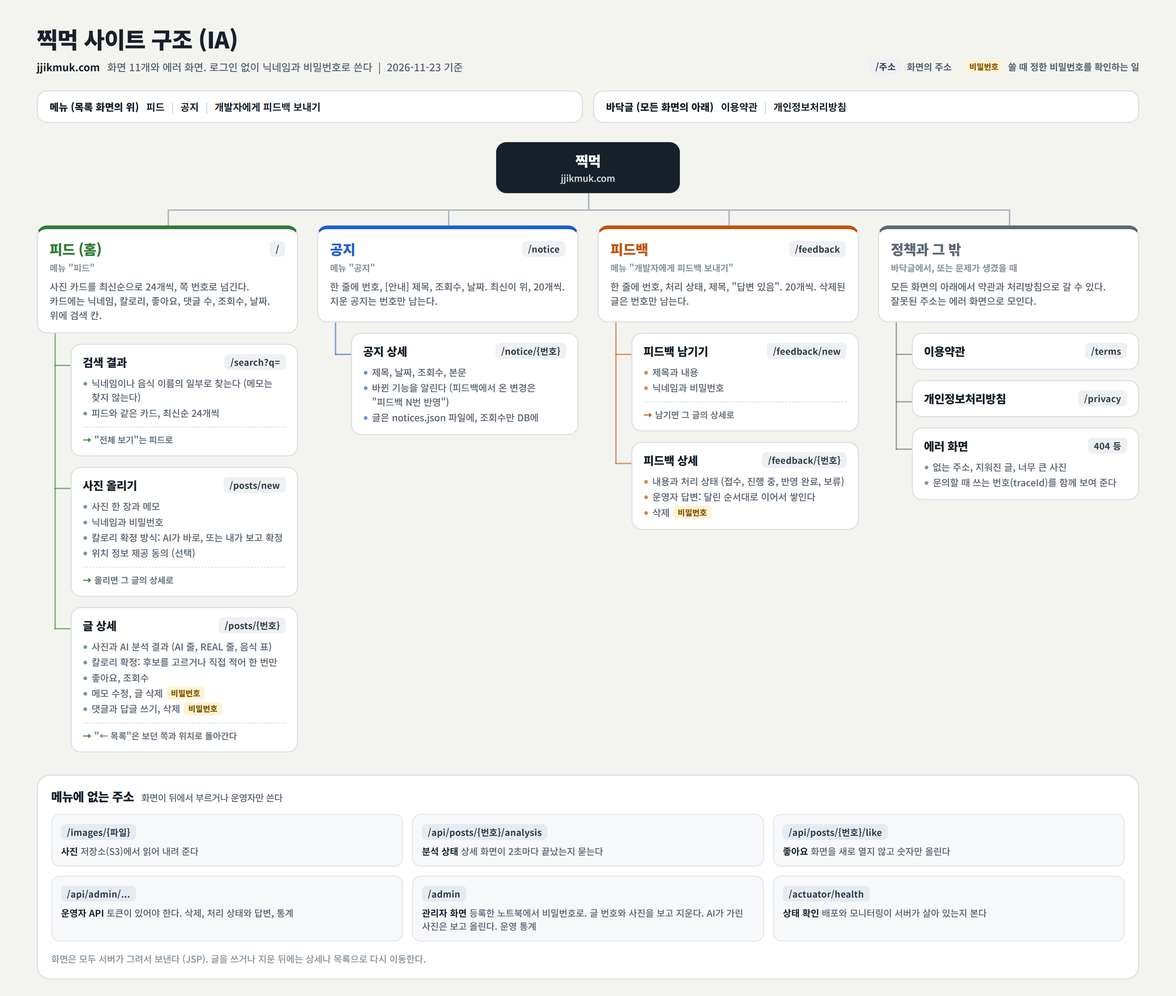
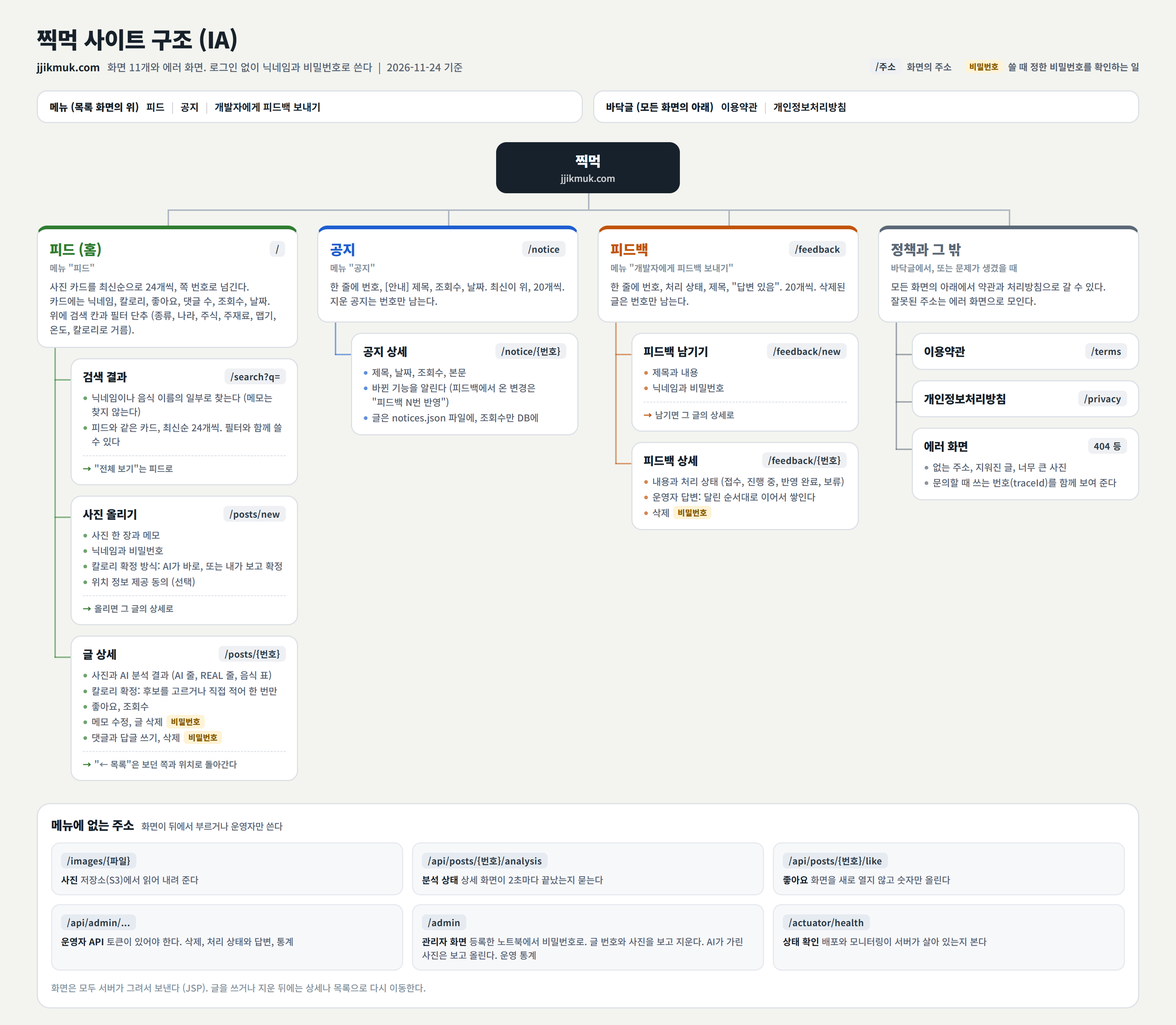
docs: 음식 태그와 필터의 기획, 그림, 성능과 흐름, 트러블슈팅 (JM-83)
- 기획서 4절, 6.6절(새로), 12 ~ 14절, 18절, 변경 이력. 구조 그림 둘 (필터, 태그 저장, 하루 상한 500)
- 성능 문서: AI 태그 전후 토큰과 시간, 필터 쿼리 수와 시간. 흐름 문서: 필터는 nginx 주소로 센다
- 트러블슈팅: 머지 전에 찾은 빈틈 열한 가지, 미리 막은 것 두 항목. SPRINTS S7의 PR #59 행

diff --git a/docs/diagrams/ai-analysis-flow.html b/docs/diagrams/ai-analysis-flow.html
@@ -68,7 +68,7 @@ h1 { position: absolute; left: 50px; top: 30px; font-size: 31px; font-weight: 80
 <body>
 <div class="stage">
   <h1>찍먹 AI 분석 흐름</h1>
-  <div class="subtitle"><b>사진 한 장이 칼로리가 되기까지</b>Google Gemini (gemini-3.5-flash-lite) &nbsp;|&nbsp; 2026-11-15 기준</div>
+  <div class="subtitle"><b>사진 한 장이 칼로리가 되기까지</b>Google Gemini (gemini-3.5-flash-lite) &nbsp;|&nbsp; 2026-11-24 기준</div>
   <div class="legend">
     <em>일하는 곳</em>
     <span class="w browser">브라우저</span><span class="w app">app 서버</span><span class="w store">저장소</span><span class="w ai">Gemini</span>
@@ -82,7 +82,7 @@ h1 { position: absolute; left: 50px; top: 30px; font-size: 31px; font-weight: 80
   <div class="step" style="left:64px; top:184px; width:341px; height:182px;" data-fit="s1">
     <div class="top"><span class="num">1</span><span class="w app">app 서버</span></div>
     <h3>업로드 제한</h3>
-    <p>같은 IP에서 1분에 3번, 하루 30번까지 올릴 수 있다.</p>
+    <p>브라우저마다 1분에 5번, 하루 30번. IP는 하루 200번, 전체는 하루 500개.</p>
     <p>넘으면 여기서 거절한다.</p>
   </div>
   <div class="step" style="left:440px; top:184px; width:341px; height:182px;" data-fit="s2">
@@ -113,7 +113,7 @@ h1 { position: absolute; left: 50px; top: 30px; font-size: 31px; font-weight: 80
   <div class="step" style="left:64px; top:500px; width:227px; height:300px;" data-fit="s5">
     <div class="top"><span class="num">5</span><span class="w app">app 서버</span></div>
     <h3>하루 상한 확인</h3>
-    <p>오늘 AI 호출이 200번을 넘었으면 부르지 않는다.</p>
+    <p>오늘 AI 호출이 500번을 넘었으면 부르지 않는다 (태그 채우기 호출도 센다).</p>
     <p>그 글은 상한 초과로 남는다.</p>
     <div class="detail"><b>횟수는 DB에서 센다</b>배포로 서버가 다시 켜져도 오늘 횟수가 0으로 돌아가지 않는다.</div>
   </div>
@@ -142,7 +142,7 @@ h1 { position: absolute; left: 50px; top: 30px; font-size: 31px; font-weight: 80
     <div class="top"><span class="num">8</span><span class="w store">RDS</span></div>
     <h3>검사하고 저장</h3>
     <p>음수이거나 지나치게 큰 값이면 실패로 처리한다.</p>
-    <p>결과와 함께 모델, 토큰 수, 걸린 시간을 저장한다.</p>
+    <p>결과, 모델, 토큰 수, 시간과 필터용 <b>음식 태그</b>를 저장한다.</p>
     <p>상태가 <b>DONE</b>으로 바뀐다.</p>
     <div class="detail"><b>실패로 남는 경우</b>답이 비었을 때, 시간 초과, 이상한 값, Gemini 쪽 오류</div>
   </div>

diff --git a/docs/diagrams/site-ia.html b/docs/diagrams/site-ia.html
@@ -74,7 +74,7 @@ code { font-family: "Noto Sans KR", "Malgun Gothic", sans-serif; font-size: 12.2
   <div class="head">
     <div>
       <h1>찍먹 사이트 구조 (IA)</h1>
-      <div class="subtitle"><b>jjikmuk.com</b>화면 11개와 에러 화면. 로그인 없이 닉네임과 비밀번호로 쓴다 &nbsp;|&nbsp; 2026-11-23 기준</div>
+      <div class="subtitle"><b>jjikmuk.com</b>화면 11개와 에러 화면. 로그인 없이 닉네임과 비밀번호로 쓴다 &nbsp;|&nbsp; 2026-11-24 기준</div>
     </div>
     <div class="legend">
       <span><code>/주소</code>화면의 주소</span>
@@ -94,14 +94,14 @@ code { font-family: "Noto Sans KR", "Malgun Gothic", sans-serif; font-size: 12.2
       <div class="sec">
         <div class="name"><h2>피드 (홈)</h2><code>/</code></div>
         <div class="menu">메뉴 "피드"</div>
-        <p>사진 카드를 최신순으로 24개씩, 쪽 번호로 넘긴다. 카드에는 닉네임, 칼로리, 좋아요, 댓글 수, 조회수, 날짜. 위에 검색 칸.</p>
+        <p>사진 카드를 최신순으로 24개씩, 쪽 번호로 넘긴다. 카드에는 닉네임, 칼로리, 좋아요, 댓글 수, 조회수, 날짜. 위에 검색 칸과 필터 단추 (종류, 나라, 주식, 주재료, 맵기, 온도, 칼로리로 거름).</p>
       </div>
       <div class="kids">
         <div class="kid">
           <div class="name"><h3>검색 결과</h3><code>/search?q=</code></div>
           <ul>
             <li>닉네임이나 음식 이름의 일부로 찾는다 (메모는 찾지 않는다)</li>
-            <li>피드와 같은 카드, 최신순 24개씩</li>
+            <li>피드와 같은 카드, 최신순 24개씩. 필터와 함께 쓸 수 있다</li>
           </ul>
           <div class="next"><b>→</b>"전체 보기"는 피드로</div>
         </div>

diff --git a/docs/PLANNING.md b/docs/PLANNING.md
@@ -38,6 +38,7 @@
 | 칼로리 확정 (고쳐 쓰는 AI) | 올릴 때 확정 방식을 고른다: "AI가 바로 확정"(기본, 지금까지와 같음) 또는 "내가 보고 확정". 내가 보고 확정으로 올리면 AI가 음식마다 후보 세 개와 양을 내고, 글 상세에서 후보를 고르거나 이름을 직접 적고 양을 고쳐서 **한 번만** 확정한다. AI의 답은 지우지 않고 확정한 값과 함께 보여 준다 (2026-11-13, JM-74, 지인 피드백 6번의 AI 정확성, 6.5절) |
 | 피드 | 최신순 무한 스크롤. 썸네일, 닉네임, 총 kcal, 댓글 수, 작성 시간. 2026-11-11부터 좋아요 수와 조회수도 보여 주고, 메모는 상세에서만 보인다 (JM-59, JM-72) |
 | 검색 | 피드 머리의 검색 칸에서 닉네임이나 음식 이름(AI가 낸 이름과 글쓴이가 확정한 이름)의 일부로 찾는다. 메모는 찾지 않는다. 결과는 피드와 같은 카드, 최신순 24개씩 (2026-11-23, JM-52, 지인 피드백 6번과 11번) |
+| 음식 필터 | 검색 칸 옆의 [필터](슬라이더 아이콘)를 누르면 뜨는 창에서 종류, 나라, 주식, 주재료, 맵기, 온도와 칼로리 범위로 거른다. 검색과 함께 쓸 수 있다. 분류는 AI가 글마다 사진을 보고 고른 태그 (2026-11-24, JM-83, 지인 피드백 11번과 13번, 6.6절) |
 | 상세 | 사진, 음식별 분석 표, 총합, 탄단지 비율 바, 면책 문구, 댓글 |
 | 게시글 삭제 | 비밀번호 확인 후 **상태 변경**으로 숨김 (DB에는 남음) |
 | 게시글 메모 수정 | 글을 올릴 때 넣은 비밀번호를 확인한 뒤 **메모만** 고친다. 사진, 닉네임, 분석 결과는 그대로다 (2026-11-12, JM-53, 지인 피드백 7번) |
@@ -59,7 +60,7 @@
 **처음부터 제외**
 - 회원제(소셜 로그인), 내 기록 모아보기, 일별 칼로리 합계, 통계
 - ~~분석 결과 사용자 보정 (예: "밥 반 공기만 먹었어요")~~ (2026-11-13, JM-74로 추가. 올릴 때 "내가 보고 확정"을 고른 글만, 글마다 한 번)
-- ~~대댓글~~ (2026-11-11, JM-58로 추가), ~~좋아요~~ (2026-11-11, JM-59로 추가), 신고, 금칙어 필터, ~~검색~~ (2026-11-23, JM-52로 추가. 닉네임과 음식 이름만), 필터
+- ~~대댓글~~ (2026-11-11, JM-58로 추가), ~~좋아요~~ (2026-11-11, JM-59로 추가), 신고, 금칙어 필터, ~~검색~~ (2026-11-23, JM-52로 추가. 닉네임과 음식 이름만), ~~필터~~ (2026-11-24, JM-83으로 추가. AI가 고른 음식 태그와 칼로리)
 - 위치 데이터 2차 가공 (지역별 인기 음식, 시간대별 평균 칼로리 등). 운영자 통계의 지역별 글 수만 2026-11-17에 더했다 (JM-85, 6.2절). 지역별 인기 음식과 공개 통계는 그대로 제외
 - 브라우저 Geolocation API로 현재 위치 첨부
 - 앱 (PWA 설치, 네이티브 앱 래핑)
@@ -244,6 +245,18 @@ AI의 추정을 사진을 올린 사람이 확인해서 확정하게 한다. 얻
 - 칼로리 차이: 확정 합계 - AI 첫 답 합계의 평균(음수면 AI가 많게 잡음), 차이 크기의 평균과 가운데 값.
 - 직접 적기로 AI를 한 번 더 부른 글과 그 토큰, 직접 적은 음식을 AI가 사진과 다르다고 본 확정 수.
 - 음식 이름과 직접 적은 글자는 내지 않고 개수만 낸다.
+
+### 6.6 음식 태그 (2026-11-24, JM-83)
+
+피드백 11번("음식 카테고리")과 13번("먹기 전에 칼로리를 미리 보고 싶다, 카테고리별로")에 답해, 글마다 음식 태그를 두고 필터로 거른다 (14절 피드).
+
+- **누가 정하나**: AI가 사진 전체를 보고 고른다 (운영자 결정 11-24). 음식 이름의 낱말로 서버가 나누는 안(운영 글 154개에 시험: 10개가 어디에도 안 들고 한 글이 평균 2개쯤에 듦)과 견줘 골랐다. 올릴 때 사용자가 고르는 안은 칸이 하나 늘고 지난 글이 비어서 뺐다
+- **묶음 여섯과 칼로리**: 종류(식사, 간식, 음료), 나라(한식, 중식, 일식, 양식, 아시아, 기타), 주식(밥, 빵, 면, 떡, 여럿), 주재료(고기, 해산물, 채소, 여럿), 맵기(매움, 안 매움), 온도(따뜻함, 차가움. 빵이나 과일처럼 어느 쪽도 아니면 태그 없음). 베트남 쌀국수 같은 음식은 나라 "아시아"(한식, 중식, 일식을 뺀 아시아). 음식이 섞인 밥상은 주된 음식(국이나 찌개와 메인 반찬) 기준. 칼로리는 AI가 고르지 않고 보이는 칼로리(확정한 글은 확정한 합계)로 200 단위 0 ~ 3000 범위를 거른다
+- **새 글**: 지금의 두 분석(AI가 바로 확정, 내가 보고 확정)의 응답 형식에 `tags` 칸을 더했다. 호출 수는 그대로다. 태그 규칙은 지시문 끝에 붙고(`GeminiFoodAnalyzer.TAG_RULES`), 값 목록은 `FoodTag`에서 응답 형식으로 만든다. 시험 사진 20장으로 잰 전후(실제 Gemini, 같은 사진을 번갈아): 실패 0 → 0, 시간 가운데 2.05 → 2.28초, 입력 토큰 가운데 1,329 → 1,766, 출력 139 → 212. 음식으로 본 글(DONE)만 태그를 저장하고, 저장에 실패해도 분석 결과는 그대로 둔다 (경고만, 나중에 채우기가 다시 채운다)
+- **지난 글과 실패한 글**: `PostTagFiller`가 켜진 지 3분 뒤부터 5분마다 태그가 없는 DONE 글을 최신 것부터 20개씩 찾아, 사진을 다시 보내 태그만 묻는다 (운영자 결정 11-24: 사진을 다시 보내 정확하게. 이름만 보내는 안은 아이스, 따뜻함처럼 사진으로만 아는 것이 틀릴 수 있다). 한 번에 입력 1,528, 출력 60 토큰, 가운데 1.6초 (시험 사진 20장). 지난 글 161개는 배포 뒤 40분쯤에 다 채워진다
+- **AI 비용을 지키는 장치**: 한 글은 3번까지만 맡는다(`tag_attempts`), 부르기 전에 맡아서(`tag_called_at`, 3분 지나면 다시) app 둘이 함께 떠 있어도 한 번만 부른다, 하루 분석 횟수 상한(500)에 태그 호출(맡은 횟수의 합)도 센다. AI에게서 답을 받지 못하면(429, 5xx, 연결 실패, 사진 저장소 오류) 맡은 것을 돌려주고 그 회차를 멈춘다: 장애가 길어도 5분에 한 번만 부르고 지난 글이 기회를 잃지 않는다 (PR 전 검토). 일정 스레드는 둘이라 태그 채우기가 분석 다시 넣기를 막지 않는다
+- **저장**: `post_tags`에 (글 번호, 태그) 한 줄씩 (12절). 묶음이나 값을 더하고 빼도 표를 고치지 않고, 필터는 기본 키와 (태그, 글 번호) 인덱스로 찾는다
+- **보는 곳**: 지금은 필터만 쓴다. 글 화면에 태그를 보여 주는 것과 운영자 통계에 태그별 글 수를 더하는 것은 다음 조각
 
 ## 7. 남용 방어 (MVP 최소)
 
@@ -509,6 +522,9 @@ GitHub (main push) → GitHub Actions → 테스트 → Docker 이미지 빌드 
 | typed_called_at | DATETIME(6) | 직접 적은 음식으로 AI를 부른 시각. 값이 있으면 그 글은 직접 적기를 이미 쓴 것이다 (글마다 한 번). 하루 상한을 셀 때도 쓴다 |
 | typed_input_tokens, typed_output_tokens, typed_latency_ms | | 그 호출에 쓴 토큰 수와 걸린 시간 |
 | typed_mismatch | BIT | 확정한 음식 가운데, 직접 적은 것을 AI가 사진과 맞지 않는다고 본 것이 있는지. 확정은 받고 표시만 남긴다 |
+| tagged_at | DATETIME(6) | 태그를 저장한 시각 (2026-11-24, JM-83, 6.6절). 비어 있으면 아직 태그가 없는 글이라 태그 채우기가 찾는다. 엔티티로 저장하는 분석 결과가 덮어쓰지 않게 UPDATE로만 채운다 |
+| tag_attempts | INT NOT NULL DEFAULT 0 | 태그 채우기가 이 글을 맡은 횟수. 3번까지만 맡는다. DB 기본값이 있어 옛 코드도 글을 저장할 수 있다 |
+| tag_called_at | DATETIME(6) | 태그 채우기가 AI를 부른 시각 (맡은 시각). 하루 분석 횟수에 센다. 3분이 지나도 태그가 없으면 다시 맡을 수 있다 |
 
 **feedbacks**
 
@@ -582,6 +598,14 @@ GitHub (main push) → GitHub Actions → 테스트 → Docker 이미지 빌드 
 | utm_source / utm_medium / utm_campaign | VARCHAR(50) | 방문의 첫 줄만. 주소에 붙은 값에서 글자, 숫자, 빈칸, `._~+-`만 남겨 50자까지 (HTML, 수식, 보이지 않는 글자는 지운다). 화면에 띄울 때도 `c:out`으로 |
 | click_id | VARCHAR(10) | 방문의 첫 줄만. 주소에 붙은 링크 표시의 이름만 (`fbclid`, `gclid`, `igsh`, `igshid`). 값은 남기지 않는다 |
 
+**post_tags** (JM-83) — 글의 음식 태그. 글 하나에 태그 여러 줄. 태그 값과 묶음은 `FoodTag`, 고르는 법은 6.6절
+
+| 컬럼 | 타입 | 비고 |
+|---|---|---|
+| post_id | BIGINT PK | 글 번호 (FK는 두지 않는다. 글은 지워도 상태만 바뀌어 남는다) |
+| tag | VARCHAR(20) PK | `MEAL` / `SNACK` / `DRINK`, `KOREAN` / `CHINESE` / `JAPANESE` / `WESTERN` / `ASIAN` / `OTHER_CUISINE`, `RICE` / `BREAD` / `NOODLE` / `RICE_CAKE`, `MEAT` / `SEAFOOD` / `VEGETABLE`, `SPICY` / `NOT_SPICY`, `HOT` / `COLD`. MySQL의 ENUM 칸이 아니라 VARCHAR (값을 더할 때 ddl-auto가 고치지 못하는 문제, 2026-11-02 기록과 같은 이유). 인덱스 `(tag, post_id)` |
+| created_at | DATETIME(6) | 저장한 시각. 다시 채우면 그 글의 줄을 모두 지우고 새로 넣는다 |
+
 ## 13. 화면 주소, API
 
 화면은 JSP로 만들고, HTML form은 GET, POST만 보낼 수 있으므로 삭제도 POST로 받는다. 저장 후에는 그 글의 상세 화면으로, 삭제 후에는 목록으로 redirect한다 (새로고침 시 중복 저장 방지).
@@ -590,8 +614,8 @@ GitHub (main push) → GitHub Actions → 테스트 → Docker 이미지 빌드 
 
 | Method | Path | 설명 |
 |---|---|---|
-| GET | `/` | 목록 (최신순 24개씩, ACTIVE만). 쪽 번호 = `/?page=2` (이전 1 2 3 다음, 범위 밖 번호는 마지막 쪽으로, 2026-11-07 JM-57) |
-| GET | `/search?q=라면&page=2` | 검색 결과 (2026-11-23, JM-52). 닉네임이나 음식 이름(`food_analyses`의 AI 답 `items`와 확정 `confirmed_items`의 이름)에 검색어가 들어간 ACTIVE 글, 최신순 24개씩. 메모는 찾지 않는다. 검색어는 앞뒤 빈칸(NBSP 같은 빈칸 글자 포함)을 떼고 30자까지, 띄어쓰기는 보지 않고(`치즈떡볶이`로 `치즈 떡볶이`를 찾는다), 영어는 대소문자를 가리지 않고, `%`와 `_`는 그 글자 그대로 찾는다. 검색어가 없거나 빈칸뿐이면 `/`로 이동. 쪽 번호는 피드와 같은 규칙. 화면은 피드(`posts/list.jsp`)를 그대로 쓰고 위에 "'라면' 검색 결과 N개 전체 보기" 줄이 붙는다. 검색 엔진에는 올리지 않는다(`noindex`) |
+| GET | `/` | 목록 (최신순 24개씩, ACTIVE만). 쪽 번호 = `/?page=2` (이전 1 2 3 다음, 범위 밖 번호는 마지막 쪽으로, 2026-11-07 JM-57). 필터 (2026-11-24, JM-83): `?tag=KOREAN&tag=SPICY&kcalMin=400&kcalMax=800`. 같은 묶음 안의 태그는 하나라도, 묶음끼리는 모두 맞는 글. 칼로리는 보이는 칼로리가 kcalMin 이상 kcalMax 미만 (200의 배수, 0 ~ 3000. 최소 0과 빈 값은 끝 없음, 최소가 크면 바꿈). 모르는 태그 이름과 숫자는 버린다. 쪽 번호 줄은 고른 필터를 싣는다 |
+| GET | `/search?q=라면&page=2` | 검색 결과 (2026-11-23, JM-52). 닉네임이나 음식 이름(`food_analyses`의 AI 답 `items`와 확정 `confirmed_items`의 이름)에 검색어가 들어간 ACTIVE 글, 최신순 24개씩. 메모는 찾지 않는다. 검색어는 앞뒤 빈칸(NBSP 같은 빈칸 글자 포함)을 떼고 30자까지, 띄어쓰기는 보지 않고(`치즈떡볶이`로 `치즈 떡볶이`를 찾는다), 영어는 대소문자를 가리지 않고, `%`와 `_`는 그 글자 그대로 찾는다. 검색어가 없거나 빈칸뿐이면 `/`로 이동. 쪽 번호는 피드와 같은 규칙. 화면은 피드(`posts/list.jsp`)를 그대로 쓰고 위에 "'라면' 검색 결과 N개 전체 보기" 줄이 붙는다. 검색 엔진에는 올리지 않는다(`noindex`). 필터(JM-83)를 함께 받는다 (`&tag=SPICY`): 검색어와 필터가 모두 맞는 글. 검색어가 비면 고른 필터를 싣고 `/?tag=...`로 이동 |
 | GET | `/posts/new` | 글쓰기 화면 |
 | POST | `/posts` | multipart(image, nickname, password, memo, confirmMode) 저장 → `/posts/{id}`로 이동. 검사에 걸리면 글쓰기 화면에 칸별 메시지. confirmMode는 칼로리 확정 방식 `AUTO`(기본) 또는 `USER` (2026-11-13, JM-74, 6.5절) |
 | GET | `/posts/{id}` | 상세 화면 (S1-2). 사람이 열면 조회수가 1 오른다: 봇(User-Agent), 같은 글 화면에서 넘어온 것(댓글을 쓰거나 지운 뒤, 메모를 고친 뒤), 작성 화면에서 넘어온 것(글을 올린 직후)은 세지 않는다 (2026-11-11, JM-72) |
@@ -679,6 +703,7 @@ GitHub (main push) → GitHub Actions → 테스트 → Docker 이미지 빌드 
 1. **피드(홈)**: 카드 리스트(사진, 닉네임, 총 kcal, 탄단지 비율 바, 댓글 수, "3분 전") + 우하단 "올리기" 버튼
    - 2026-11-11 (JM-72): 카드를 사진 아래 두 줄로 고정해서 모든 카드의 높이가 같다. 첫 줄은 왼쪽에 닉네임(길면 …으로 줄임), 오른쪽 끝에 칼로리. 둘째 줄은 왼쪽에 좋아요, 댓글, 조회수(칸 폭이 정해져 있어 아이콘이 카드마다 같은 자리에 오고, 0이어도 자리를 지킨다), 오른쪽 끝에 날짜. 날짜는 연도를 넣어 `2026.11.11` (공지 목록과 같은 모양. 곧 해가 바뀌어서 넣었고, "2026년 11월 11일"은 카드에 넣기에 길다). 올린 시각은 상세 화면에서 보인다. 휴대폰은 카드가 좁아서 날짜를 짧게 `11.11`로, 지난해까지의 글은 `25.12.31`로 보여 주고, 칼로리의 단위 글자를 작게 한다. 그 전에는 닉네임 바로 뒤에 날짜가 붙어서 닉네임 길이에 따라 날짜 자리가 카드마다 달랐고, 휴대폰에는 날짜가 없었다. 운영자 요청, 검토 네 번: 첫 안에는 메모가 남아 있었는데 메모가 있는 카드와 없는 카드의 높이가 달라 가지런하지 않다고 해서 둘째 안에서 메모를 목록에서 빼고 상세에서만 보이게 했고(PR #32), 배포된 화면을 보고 맨 아래 줄에 따로 있던 숫자를 오른쪽 위(날짜 바로 위)로 올렸다가(PR #33), 닉네임을 왼쪽 위, 칼로리를 오른쪽 위, 숫자를 왼쪽 아래로 다시 놓고 날짜에 연도를 넣었다 (PR #34)
    - 2026-11-23 (JM-52, 피드백 6번과 11번): 머리에 검색 칸("닉네임이나 음식 이름" 안내 글자와 "찾기" 버튼)을 둔다. PC는 메뉴 링크와 같은 줄 오른쪽 끝, 휴대폰은 메뉴 링크 아래 한 줄 전체. 찾으면 피드와 같은 카드 격자 위에 "'라면' 검색 결과 N개 전체 보기" 줄이 붙고, 검색 칸에는 찾은 말이 남는다. 찾은 글이 없으면 "찾은 글이 없어요. 음식 이름의 일부만 쳐 보세요 (예: 찌개)". 메뉴의 "피드"는 검색 결과에서도 초록으로 둔다 (피드 안에서 찾은 것). 검색 칸은 피드와 검색 결과에만 있다. 휴대폰 자판의 "검색" 버튼으로 바로 보낸다(`type="search"`). 운영자 검토 한 번 (그대로 진행). 음식 분류(JM-83)의 줄은 검색 칸 아래, 카드 바로 위에 둘 예정
+   - 2026-11-24 (JM-83, 피드백 11번과 13번): 검색 칸의 [찾기] 옆에 [필터] 단추(가로줄 셋에 동그란 손잡이 아이콘). 고른 것이 없으면 속이 빈 손잡이, 있으면 초록으로 채운 손잡이와 오른쪽 위에 고른 수. 누르면 휴대폰은 아래에서 올라오는 판, PC는 가운데 창이 피드 위에 겹쳐 뜬다(dialog, 피드를 밀지 않는다). 창에는 묶음마다 칩(체크 상자)과 칼로리 "[최소] ~ [최대] kcal" 두 칸, 아래에 [초기화] [적용]. 적용하면 검색 결과 줄과 같은 모양의 한 줄 "필터: 한식, 매움 글 10개 필터 지우기"가 붙는다. 검색과 함께 쓰면 "'떡볶이' 검색 결과 3개 (필터: 매움) 필터 지우기 전체 보기". 운영자 검토 세 번: 첫 안은 피드 위에 늘 보이는 한 줄(식사, 간식, 음료, 필터 더 보기)과 펼치는 칸이었고, 휴대폰에서 칼로리 칩 16개가 화면을 차지했다. 새 칸이 피드를 밀어내지 않게 찾기 옆 단추와 겹쳐 뜨는 창으로 바꿨고(둘째 안), 단추를 글자 대신 슬라이더 아이콘으로 바꿨다(셋째 안, 운영자가 고른 모양). PR 전 검토에서 고친 것: 열 때마다 지금 걸린 필터로 되돌린다(적용하지 않은 선택이 남지 않게), 뒤로 가기로 돌아오면 창을 닫는다, 비어 있는 칼로리 칸은 잠그지 않고 보낼 값에서 뺀다, 필터를 고른 화면은 `noindex`, 칼로리는 카드에 보이는 반올림한 숫자로 견준다
 2. **작성**: 사진 촬영/선택 → 미리보기 → 닉네임, 비밀번호, 메모 → 위치 정보 제공 동의(선택) → 올리기
    - 2026-11-13 (JM-74): 메모 아래에 "칼로리 확정 방식"을 고르는 칸을 둔다. 둘 중 하나이고 "AI가 바로 확정해요"가 기본, 다른 하나는 "AI가 낸 후보를 보고 내가 확정할게요". 그 아래 안내 한 줄: 내가 확정하기를 고르면 후보 세 개와 양이 나오고, 글을 올리면 바로 고르거나 직접 적어 확정할 수 있으며, 확정은 한 번뿐이고, 확정하지 않으면 AI의 첫 답이 그대로 보인다
 3. **상세**: 사진, 분석 중 로딩 → 음식별 표 + 총합 + 비율 바 + 면책 문구, 삭제 버튼, 댓글 목록과 입력창(닉네임, 비밀번호, 내용)
@@ -919,6 +944,8 @@ S2-2 실제 확인 (2026-11-02): 개발 서버와 Docker 배포 구성 모두에
 | 방문 지역 (IP) | 동네는 사진 GPS로 세고(JM-85), IP로는 시/도만 센다: 무료 IP 데이터는 동네는 물론 시/군/구도 믿기 어렵다. DB-IP 무료판(IP to City Lite, CC BY 4.0, 매달 새 판)을 서버에 두고(git 밖, 약 121MB) 서버 안에서 찾는다 (외부 API에 IP를 보내지 않는다). IP는 저장하지 않고 시/도의 하루 합계만 둔다. 방문은 이미 쓰는 세션으로 브라우저의 첫 화면만, 사람만(User-Agent) 센다. 배포한 날부터 쌓인다. 광주와 전남은 행정동 경계처럼 전남광주통합특별시로 센다. 사람인지 가르는 낱말을 서버 로그로 트래픽을 셀 때의 목록과 맞췄다 (공지와 글 조회수에도 적용) (JM-86, 운영자 결정: 사진 위치 + IP 시/도) | 2026-11-18 |
 | 사용자 흐름 기록 | 사람이 받은 화면과 글 올리기를 방문 단위로 한 줄씩 우리 DB(`page_views`, 12절)에 남겨, 들어온 곳과 화면 사이의 이동을 SQL로 본다. GA4 같은 외부 도구는 쓰지 않는다: 데이터가 밖으로 나가고 스크립트가 무거워 사진 전송 문제(성능 문서)를 키운다. Umami 같은 도구는 2GB 서버에 하나를 더 띄워야 한다. 방문 수(JM-86)를 세는 자리 옆에서 같은 화면 범위와 같은 사람 판정을 쓴다. 저장은 화면 응답 밖에서 기록 전용 일꾼 스레드 하나가 INSERT 한 문장으로 한다 (줄 1000개, 가득 차면 버림): 요청 안에서 JPA로 저장하니 사람 화면이 p50 8 ms 늦어져서 재어 보고 바꿨다 (성능 문서 8절). 방문은 이미 쓰는 세션에 무작위 번호를 붙여 잇는다 (쿠키를 새로 만들지 않는다). bot, 관리자로 들어온 적이 있는 세션(로그아웃한 뒤에도), 에러 화면은 뺀다. IP, 세션 번호, 전체 User-Agent, 전체 주소는 남기지 않고, 이 방문이 올리거나 쓰거나 고친 글의 번호도 그 방문의 줄에 남기지 않는다 (시각으로는 이을 수 있어서 흐름 기록을 글쓴이를 찾는 데 쓰지 않는다). **지우지 않고 모두 보관한다** (운영자 결정 11-20: 나중에 2차 분석에 쓴다. 지금 사람의 화면 조회로 보면 한 해에 15만 줄쯤, 인덱스까지 30MB 안쪽). 쿠키를 안 쓰는 스크립트가 끝없이 늘리지 못하게 하루에 받는 줄은 2만 줄까지 (지금의 50배쯤). 버튼 클릭 수, 관리자 통계의 카드, 매주 남기는 한 줄은 다음 조각 (JM-92, 운영자 요청) | 2026-11-20 |
 | 검색 | 닉네임과 음식 이름(AI가 낸 이름, 글쓴이가 확정한 이름)만 찾고 메모는 찾지 않는다 (운영자 결정, JM-52). 음식 이름은 지금의 JSON 글자 칸을 MySQL `JSON_TABLE`로 풀어 이름 칸에만 `LIKE '%검색어%'`를 건다: 칸이나 표를 새로 만들지 않아도 되고, JSON 글자 전체에 LIKE를 걸면 `kcal`, `TYPED` 같은 칸 이름과 값까지 걸린다. `JSON_SEARCH`는 대소문자를 가려서 쓰지 않았다. 띄어쓰기는 보지 않는다 (이름과 검색어 양쪽에서 빈칸을 빼고 견준다. AI가 "치즈 떡볶이"처럼 띄어 쓰기도 붙여 쓰기도 한다). 인덱스를 쓰지 못해 글 수만큼 읽는다: 로컬에서 글 100개 약 2 ms, 1천 개 약 10 ~ 25 ms, 1만 개 약 70 ~ 250 ms (두 번 잰 범위). 글이 몇천 개를 넘으면 음식 이름을 따로 담는 표(또는 칸)에 FULLTEXT ngram 인덱스를 두는 방식으로 바꾼다 (`performance.md`). 주소는 피드와 따로 `/search?q=`: 검색 횟수를 피드와 나눠 세고, 검색어는 흐름 기록(`page_views`)에 남기지 않는다 | 2026-11-23 |
+| 음식 태그 | 카테고리는 AI가 글마다 사진을 보고 고른다 (음식 이름의 낱말로 나누는 안과 올릴 때 고르는 안 대신). 묶음은 운영자가 정한 넷(나라, 맵기, 주식, 온도)에 종류, 주재료, 칼로리를 더한 일곱, 한 글에 여러 태그. 새 글은 분석 응답에 태그 칸을 더해 호출 수를 늘리지 않고, 지난 글은 사진을 다시 보내 채운다 (5분마다 20개, 한 글 3번까지, 하루 상한에 셈). 태그는 `post_tags`에 한 줄씩 (6.6절) | 2026-11-24 |
+| 필터 화면 | 데이터는 일곱 묶음을 모두 모으고, 화면은 찾기 옆 [필터] 아이콘 단추 하나와 겹쳐 뜨는 창 (피드에 칸을 늘리지 않는다, 운영자 검토). 같은 묶음 안은 "하나라도", 묶음끼리는 "모두". 칼로리는 200 단위 최소, 최대 두 칸으로 3000까지 (칩 16개는 휴대폰 화면을 차지해서). 검색과 함께 쓴다. 일주일쯤 뒤 nginx 기록의 주소(`tag=`)로 실제로 쓰는 묶음을 세어 안 쓰는 묶음은 화면에서 뺀다 | 2026-11-24 |
 
 **미정**
 
@@ -933,6 +960,7 @@ S2-2 실제 확인 (2026-11-02): 개발 서버와 Docker 배포 구성 모두에
 
 ## 변경 이력
 
+- 2026-11-24 — 음식 필터 (JM-83, 지인 피드백 11번과 13번): AI가 글마다 음식 태그(종류, 나라, 주식, 주재료, 맵기, 온도)를 고르고, 찾기 옆 [필터] 창에서 태그와 칼로리 범위로 거른다. 검색과 함께 쓴다. 지난 글은 사진을 다시 보내 채운다. 4.1절, 4.2절, 6.6절(새로), 12절(`food_analyses`의 태그 칸, `post_tags`), 13절, 14절, 18절
 - 2026-11-23 — 검색 (JM-52, 지인 피드백 6번과 11번): 피드 머리에 검색 칸을 두고 `/search?q=`로 닉네임과 음식 이름(AI의 답과 확정한 이름)의 일부를 찾는다. 띄어쓰기는 보지 않고, 메모는 찾지 않는다. 4.1절, 4.2절, 12절(`items`, `page_views`의 `SEARCH`), 13절, 14절(검색 칸 자리, 검색 결과에서 "← 목록"), 18절(검색 방식과 바꿀 때)
 - 2026-11-23 — 끌 때 버려진 AI 분석 다시 넣기 (JM-110): 6.1절 자동 재시도의 첫 조각으로 PENDING을 5분마다 다시 줄에 넣고, `food_analyses.claimed_at`, `claim_count`(12절)으로 분석을 한 번만, 한 글에 3번까지만 맡게 했다. 4.1절, 6.4절의 실패 처리, 알고 배포하는 한계, 18절 결정
 - 2026-11-23 — 무중단 배포 (JM-62): app을 두 자리(`app1`, `app2`)로 두고 `deploy.sh`가 꺼진 자리를 새 버전으로 켜서 health 확인과 데우기 뒤 nginx `reload`로 넘긴다. 10절의 배포, 되돌리기, 비상 빌드와 DB 칸을 바꿀 때의 규칙, 11절의 로그 스트림 이름, 16절의 운영자 명령(`.env`를 바꾼 뒤 `bash deploy.sh current`, 장애 대응)을 새 방식으로 고치고, 18절에 결정을 더했다

diff --git a/docs/troubleshooting/2026-11-24-tags-filter-gaps-before-merge.md b/docs/troubleshooting/2026-11-24-tags-filter-gaps-before-merge.md
@@ -1,0 +1,67 @@
+# 음식 태그와 필터를 머지하기 전에 찾은 빈틈 (테스트, 직접 찍기, PR 전 검토)
+
+- **종류**: 찾은 문제 (DB, AI 비용, 화면). JM-83 음식 태그와 필터를 만드는 동안 테스트, 화면 찍기, PR 전 검토로 찾았다. 모두 운영에 나가기 전에 고쳤다
+- **발견**: 2026-11-24
+  - ①②: 실제 DB로 도는 테스트와 표 모양 확인
+  - ③: draft1 화면을 찍을 때
+  - ④~⑪: PR 전 검토, 에이전트 둘이 따로 봤다 (데이터와 AI 비용, 화면과 보안)
+    - 데이터 쪽: 운영과 같은 옛 표에 칸을 더하는 것, 옛 버전 앱이 함께 저장하는 것, 동시에 바꿔 쓰는 것을 따로 만든 DB에서 실제로 돌렸다
+    - 화면 쪽: 헤드리스 Chrome으로 뒤로 가기, 끌기, 너비별 모양을 돌렸다
+    - 반박 확인은 에이전트를 더 띄우지 않고, 고치기 전후를 같은 스크립트와 테스트로 직접 재현해서 했다
+- **상태**: 해결 (JM-83, PR #59). 고치지 않은 작은 것은 아래 "남긴 것"
+- **영향**: 그대로 나갔다면 다음 일이 있었다
+  - 태그가 하나도 저장되지 않았다(①)
+  - 나중에 태그 값을 더할 때 저장이 실패했다(②)
+  - AI가 잠깐 장애일 때 지난 글들이 태그를 영영 못 받았다(⑤)
+  - 필터를 쓰고 뒤로 가면 칼로리 칸이 잠긴 채 남았다(⑨)
+
+## 현상과 원인과 해결
+
+| | 찾은 방법 | 현상 (고치기 전) | 원인 | 해결 | 확인 (고친 뒤) |
+|---|---|---|---|---|---|
+| ① | 테스트 (`PostTagFillerTest`) | 태그를 바꿔 쓰면 태그가 하나도 남지 않았다 | 태그를 넣고(아직 DB로 보내지 않은 INSERT) "채웠음"을 적는 UPDATE의 `clearAutomatically`가 JPA의 기억을 비우면서 INSERT를 버렸다 | UPDATE 전에 먼저 보낸다 (`flushAutomatically`) | 테스트 통과, 로컬 글 27개에 태그가 저장됨 |
+| ② | 표 모양 확인 (`SHOW CREATE TABLE`) | `post_tags.tag`가 MySQL `ENUM` 칸으로 만들어졌다 | `@Enumerated(STRING)`만 두면 Hibernate가 MySQL에서 ENUM을 만든다. ENUM 칸은 값을 더할 때 ddl-auto가 고치지 못한다 (S1과 2026-11-02 기록에서 겪은 것) | `@JdbcTypeCode(VARCHAR)` (다른 enum 칸과 같은 규칙), 로컬 표는 지우고 다시 만듦 | `varchar(20)` |
+| ③ | draft1 화면 찍기 | 휴대폰에서 펼친 칸의 칼로리 칩 16개가 화면을 차지해 사진이 한참 아래로 밀렸다 | 피드 위에 늘 보이는 칸을 두었다 | 운영자 검토로 찾기 옆 [필터] 단추와 겹쳐 뜨는 창, 칼로리는 최소와 최대 두 칸 (draft2, draft3) | 피드 모양은 그대로, 버튼 하나만 더해짐 |
+| ④ | 검토, 코드 | 사진 저장소(S3) 오류가 나면 태그 채우기 한 회차가 통째로 멈추고 ERROR 로그로 에러 메일이 갈 수 있었다 | 글 하나의 처리가 AI 실패(`FoodAnalysisException`)만 받았다 | 글마다 모든 오류를 받아 그 글의 실패로 남기고, 사진 저장소 오류는 "답을 받지 못함"(IMAGE_LOAD)으로 본다 | 테스트 (사진 저장소가 오류를 내면 횟수 0, AI를 부르지 않음. 예상하지 못한 오류는 실패 하나) |
+| ⑤ | 검토, 코드 | Gemini가 한 시간 장애면 지난 글 80개쯤이 3번을 다 써 영영 채워지지 않았다 | 장애(429, 5xx, 연결 실패)도 맡은 횟수를 썼고, 회차는 20개를 차례로 계속 불렀다 | 답을 받지 못하면 맡은 것을 돌려주고(`releaseTagging`) 그 회차를 멈춘다 | 테스트 (503이면 한 번만 부르고 멈춤, 두 글 모두 횟수 0, 다음 회차에 다시 찾음) |
+| ⑥ | 검토, 코드 | 하루 분석 횟수에 태그 호출을 글 수로 세서, 한 글을 세 번 부르면 한 번으로 셌다 | 맡을 때마다 `tag_called_at`을 덮어써서 글 하나에 한 줄 | 오늘 부른 글의 맡은 횟수를 모두 더한다 (조금 많게 셀 수 있는 쪽) | 테스트 (두 번 맡으면 2) |
+| ⑦ | 검토, 코드 | AI가 응답하지 않으면 태그 채우기 한 회차가 12분까지 걸리고, 그동안 분석 다시 넣기가 기다렸다 | 일정 스레드가 하나 (Spring 기본값) | 일정 스레드 둘 (`spring.task.scheduling.pool.size=2`), ⑤로 장애 때는 한 번만 부르고 멈춤 | 설정 |
+| ⑧ | 검토, 코드 | 카드에 800 kcal로 보이는 글(799.6)이 "800 이상" 필터에 나오지 않았다 | 카드는 반올림한 숫자, 필터는 소수 그대로 견줬다 | 필터도 반올림한 값으로 견준다 | 테스트 (799.4는 800 미만, 799.6은 800 이상) |
+| ⑨ | 검토, 재현 | [적용] 뒤 뒤로 가기를 하면 필터 창이 열린 채 돌아오고 칼로리 칸 두 개가 잠겨 있었다 | 비어 있는 칼로리 칸을 보내지 않으려고 칸을 잠갔는데(disabled), 브라우저가 저장해 둔 화면에 잠긴 채 남았다 | 칸을 잠그지 않고 보낼 값에서 뺀다(`formdata`). 저장해 둔 화면으로 돌아오면 창을 닫고 지금 필터로 되돌린다 | 같은 스크립트: 창 닫힘, 칸 잠기지 않음 |
+| ⑩ | 검토, 재현 | 창을 ✕로 닫았다 다시 열면 적용하지 않은 선택이 남아 있었다. 뒤로 가기로 돌아오면 적용하지 않은 한식이 체크돼 있었다 | 창의 칸 값을 지금 걸린 필터로 되돌리지 않았고, 브라우저가 칸 값을 되살렸다 | 열 때마다 `form.reset()`, `autocomplete="off"` | 같은 스크립트: 고기 체크 안 됨, 한식 체크 안 됨 |
+| ⑪ | 검토, 재현 | 필터를 고른 피드에서 뒤로 가기로 빠져나온 뒤 글을 열면 "← 목록"이 그 필터 화면으로 데려갔다 (쪽 번호는 전부터 그랬다) | "보던 목록" 스크립트가 처음 열릴 때만 돌고, 브라우저가 저장해 둔 화면으로 돌아올 때는 다시 돌지 않았다 | `pageshow`에서도 지금 주소를 다시 적는다 | `back:url:/`가 `/`, "← 목록"이 `/` |
+
+## 함께 고친 작은 것
+
+- 창 안에서 끌어 밖에서 놓으면 창이 닫혔다 → 누른 곳과 뗀 곳이 모두 바깥일 때만 닫는다
+- 필터를 고른 피드가 검색 엔진에 올라갈 수 있었다 → 검색 결과처럼 `noindex`
+- ✕ 단추가 30 x 32px → 44 x 44px
+- 휴대폰에서 창이 열린 동안 뒤의 피드가 스크롤됐다 → 막는다 (PC는 스크롤 막대가 사라져 화면이 흔들려서 휴대폰만)
+- dialog를 모르는 옛 브라우저(iOS 15.3 이전)에서는 창이 늘 펼쳐져 있었다 → 열기 전에는 숨기고, 단추를 누르면 화면 안에 펼친다
+- 태그만 묻는 지시문의 문장이 응답 형식과 달랐다 (형식이 이겨서 해는 없었다) → 맞춤
+
+## 남긴 것 (고치지 않음)
+
+- 지난 글 채우기 161번은 배포한 날의 하루 분석 상한(500)을 사용자 업로드와 나눠 쓴다. 지금 하루 글이 열 몇 개라 넉넉하다
+- 태그 호출을 셀 때 그 글을 어제 부른 횟수까지 들어가 조금 많게 셀 수 있다 (비용을 막는 장치라 많게 세는 쪽을 골랐다)
+- JavaScript가 꺼진 브라우저에서는 [필터]가 동작하지 않는다 (주소로 고른 필터는 동작한다)
+
+## 재발 방지
+
+- `PostTagFillerTest`, `PostFilterTest`, `FoodTagsTest`, `FeedFilterTest`에 위의 경우를 넣었다
+- 필터 창을 헤드리스 Chrome으로 눌러 보는 스크립트(검토 에이전트가 만든 것)를 기록 저장소에 남겼다. 화면을 고치면 다시 돌린다
+- 미리 막은 것은 [prevent-server-resources](prevent-server-resources.md) 15번, [prevent-security-privacy](prevent-security-privacy.md) 13번
+
+## 배운 것
+
+- `@Modifying(clearAutomatically)` 쿼리를 다른 저장과 한 트랜잭션에 두면, 앞에서 저장한 것이 DB로 가기 전에 지워질 수 있다. 테스트가 실제 DB로 "저장한 뒤 다시 읽기"를 했기 때문에 잡았다
+- 새 표를 만들면 칸 모양(`SHOW CREATE TABLE`)을 꼭 본다. 코드만 봐서는 ENUM이 생기는 줄 모른다
+- 뒤로 가기는 "브라우저가 저장해 둔 화면"과 "다시 받아 칸 값만 되살린 화면" 두 가지가 있다. 둘 다 시험한다
+- 외부 API의 잠깐 장애는 "실패"가 아니라 "아직 안 함"으로 다룬다. 횟수 제한이 장애를 영구 실패로 바꾼다
+
+## 기록
+
+- 비공개 기록 저장소 `update_picture/JM-83/`
+  - `review-before.txt`, `review-before/`: ⑨~⑪ 고치기 전
+  - `review-after.txt`, `review-after/`: 고친 뒤
+  - `tools/review/`: 재현 스크립트

diff --git a/docs/SPRINTS.md b/docs/SPRINTS.md
@@ -380,3 +380,4 @@
 | PR #56 | JM-110 | 서버를 끌 때 줄에서 기다리던 AI 분석이 버려져 PENDING으로 남던 것을 다시 줄에 넣는다 (JM-62 PR 전 검토에서 찾은, 전부터 있던 문제. 운영자 요청: 찾은 것은 모두 트러블슈팅으로). 분석 줄은 app의 메모리에만 있어서 끌 때(배포, 재시작) 줄의 일은 버려지고, 줄이 가득 차서 넣지 못한 글도 같았다. 분석을 시작할 때 `food_analyses.claimed_at`, `claim_count`를 조건부 UPDATE로 채워 그 글을 맡고(맡지 못하면 AI를 부르지 않음), `PendingAnalysisRequeuer`가 2분 뒤부터 5분마다 만든 지 3분이 넘고 하루가 안 된 PENDING 가운데 맡지 않았거나 맡은 지 3분이 넘은 것을 한 번에 10개까지 다시 넣는다. 켤 때 한 번만 하지 않는 것은, 무중단 배포에서 옛 app이 새 app보다 늦게 꺼지면서 줄을 버리기 때문. 내 PC 재현(AI가 30초씩 걸리게 하고 글 6개, 다시 넣기는 시험용으로 20초마다): 끄고 다시 켠 뒤 3분에 PENDING 4 그대로 → 약 3분 만에 0 (운영 값이면 약 7분), 무중단 배포로 옛 app이 줄을 버린 경우 배포가 끝나자 바로 0이고 글마다 AI는 한 번(옛 app은 같은 글 둘을 두 번씩 꺼냈지만 맡기에서 건너뜀). 운영의 첫 배포처럼 옛 코드에서 넘어가도 칸 둘이 옛 app이 도는 채로 붙고 0이 됐다(옛 app이 맡지 않은 채 분석하던 두 글은 AI를 두 번, 운영 값에서는 줄이 3분 넘게 밀려 있을 때만). 맡은 지 오래된 기준은 처음 10분이었다가, 끄는 도중 끊긴 글이 늦게 풀려서 3분으로. PR 전 검토(에이전트 넷, 넷째가 고친 것을 반박 확인)에서 셋이 같이 찾은 것: 결과 저장이 계속 실패하는 글은 5분마다 AI를 다시 부르고 하루 한도에도 세지 않았다(실제 DB로 재현) → 한 글은 3번까지만 맡고 그 뒤 STUCK, 실패는 UPDATE 한 번으로. 늦게 끝난 일꾼이 다른 결과와 사용자의 확정을 덮던 것(재현) → 저장 직전에 맡은 시각 확인. 기능 전부터 남은 글이 첫 배포에 한꺼번에 분석되던 것 → 하루가 넘은 PENDING은 빼고 운영자가 SQL로 본다. 넷째 반박 확인에서 찾은 DB 연결 실패의 예외와 테스트 뒤에도 살아 있던 일정도 고쳤다. 테스트 24개 더해 전체 374개. 새 칸은 비워 둘 수 있거나 DB 기본값이 있어 옛 코드와 같이 쓴다(기획서 10절 규칙). [트러블슈팅](troubleshooting/2026-11-23-pending-analysis-left-on-shutdown.md), 기획서 4.1절, 6.1절, 6.4절, 12절, 18절. 화면 변경 없음. 배포(11-23 15:35)는 무중단 배포의 두 번째로, 새 자리가 켜질 때 칸 둘이 붙었고 밖에서 1초마다 잰 600번이 모두 성공했다. 이 PR에는 JM-62 PR #55 머지 뒤에 올린 트러블슈팅 기록 셋도 들어 있다. 기록: [JM-110 폴더](https://github.com/abjsky1/jjikmuk_update_picture/tree/main/update_picture/JM-110) |
 | PR #57 | JM-62 | 운영 숫자를 문서에 더함 (문서만). 무중단 배포의 운영 after: PR #56 배포를 밖에서 1초마다 600번 요청해 실패 0건, 배포 직후 화면마다 첫 요청 42 ~ 129 ms. 트러블슈팅 두 기록(배포 때 502, 배포 뒤 첫 요청)과 목록, 성능 문서 8절, SPRINTS #55, #56 행. JM-107의 운영 확인(11-22, 잘못된 값 400)과 JM-110의 배포도 같이 적었다. 화면 변경 없음. 기록: [JM-62 폴더](https://github.com/abjsky1/jjikmuk_update_picture/tree/main/update_picture/JM-62) |
 | PR #58 | JM-52 | 검색 (지인 피드백 6번의 닉네임이나 글 내용으로 검색, 11번의 검색 기능, 웹 병행 셋째). 피드 머리에 검색 칸을 두고(PC는 메뉴 줄 오른쪽, 휴대폰은 메뉴 아래 한 줄) `/search?q=`로 닉네임이나 음식 이름의 일부를 찾는다. 음식 이름은 AI가 낸 이름과 글쓴이가 확정한 이름 둘 다이고, 메모는 찾지 않는다 (운영자 결정). 결과는 피드와 같은 카드에 "'라면' 검색 결과 N개 전체 보기" 줄, 최신순 24개씩. 음식 이름은 지금의 JSON 글자 칸을 MySQL `JSON_TABLE`로 풀어 이름에만 LIKE를 건다 (칸 이름 `kcal` 같은 것은 걸리지 않고, 깨진 JSON은 건너뛴다). `%`와 `_`는 그 글자 그대로, 영어는 대소문자를 가리지 않고, 검색어는 30자까지. 흐름 기록에는 화면 `SEARCH`와 쪽 번호만 남기고 검색어는 남기지 않는다. 검색 결과에서 글을 열고 "← 목록"을 누르면 그 검색 결과와 보던 위치로 돌아간다 (JM-71, 검토 뒤 직접 눌러 보다 찾음: 처음에는 피드 첫 쪽으로 갔다). 띄어쓰기는 보지 않는다("치즈떡볶이"로 "치즈 떡볶이"를 찾는다). 로컬 검색 두 쿼리 합 글 100개 약 2 ms, 1천 개 약 10 ~ 25 ms, 1만 개 약 70 ~ 250 ms (몇천 개를 넘으면 FULLTEXT로, 기획서 18절), 요청마다 쿼리 4개로 피드와 같다. 운영자 검토 한 번 (그대로 진행). 처음 그린 화면은 공통 버튼 규칙 때문에 휴대폰 입력칸이 깨져서 고쳤다. PR 전 검토(에이전트 둘)에서 찾은 것(새 탭에서 글을 열면 스크립트 오류, 띄어쓰기로 못 찾음, 긴 검색어로 휴대폰 화면 밀림, PC 좁은 폭에서 한 줄 소개가 가운데에서 벗어남 등)을 고치고 같은 스크립트로 전후를 확인했다 ([찾은 문제](troubleshooting/2026-11-23-search-gaps-before-merge.md)). 기획서 4절, 12 ~ 14절, 18절, 구조 그림, 성능 문서, 흐름 문서. 공지 16번. 기록: [JM-52 폴더](https://github.com/abjsky1/jjikmuk_update_picture/tree/main/update_picture/JM-52) |
+| PR #59 | JM-83 | 음식 필터 (지인 피드백 11번의 음식 카테고리, 13번의 먹기 전에 카테고리별로 칼로리 보기, 웹 병행 넷째). AI가 글마다 사진을 보고 태그를 고른다: 종류(식사, 간식, 음료), 나라(한식, 중식, 일식, 양식, 아시아, 기타), 주식(밥, 빵, 면, 떡), 주재료(고기, 해산물, 채소), 맵기, 온도. 운영자가 정한 넷(나라, 맵기, 주식, 온도)에 종류, 주재료, 칼로리를 더했고, 칼로리는 200 단위로 3000까지 숫자로 거른다 (운영자 결정). 새 글은 분석 응답에 태그 칸을 더해 호출 수가 그대로이고(시험 사진 20장: 입력 토큰 가운데 1,329 → 1,766, 시간 2.05 → 2.28초), 지난 글 161개는 사진을 다시 보내 5분마다 20개씩 채운다(한 번에 1.6초, 한 글 3번까지, 장애 때 멈춤, 하루 상한에 셈). 화면은 운영자 검토 세 번: 피드 위에 늘 보이는 칸(draft1)이 휴대폰에서 피드를 밀어내서, 찾기 옆 [필터] 단추와 아래에서 올라오는 판(draft2), 슬라이더 아이콘 단추(draft3, 운영자가 고른 모양). 같은 묶음 안은 하나라도, 묶음끼리는 모두. 검색과 함께 쓴다. 필터를 고른 화면도 쿼리 4개, 로컬 가짜 글 1만 개에서 7 ~ 23 ms. 테스트로 찾은 것 둘(태그가 하나도 저장되지 않음, 태그 칸이 MySQL ENUM)과 PR 전 검토(에이전트 둘)에서 찾은 것 아홉(AI 장애 때 지난 글이 기회를 잃음, 뒤로 가기 뒤 칼로리 칸이 잠김 등)을 고쳤다 ([찾은 문제](troubleshooting/2026-11-24-tags-filter-gaps-before-merge.md)). 기획서 4절, 6.6절(새로), 12 ~ 14절, 18절, 구조 그림 둘, 성능 문서, 흐름 문서. 공지 17번. 기록: [JM-83 폴더](https://github.com/abjsky1/jjikmuk_update_picture/tree/main/update_picture/JM-83) |

diff --git a/docs/performance.md b/docs/performance.md
@@ -98,6 +98,7 @@
 | 피드 마지막 쪽 (bot) | 3 | 마지막 쪽이라 Spring Data가 전체 글 수 쿼리를 건너뛴다 |
 | 검색 1쪽 (bot, 2026-11-23 JM-52) | 4 | 맞는 글 24개, 맞는 글 수, 분석 24개 한 번에, 댓글 수 24개 한 번에 (피드와 같다) |
 | 검색, 맞는 글 없음 (bot) | 1 | 맞는 글. 첫 쪽이 다 차지 않아 개수 쿼리를 건너뛰고, 글이 없어 분석과 댓글 수도 읽지 않는다 |
+| 필터를 고른 피드나 검색 (bot, 2026-11-24 JM-83) | 4 | 맞는 글, 맞는 글 수, 분석 한 번에, 댓글 수 한 번에 (피드와 같다). 맞는 글 수는 첫 쪽이 다 차지 않아도 센다 (결과 줄에 보여서) |
 | 글 상세, 댓글 있음 (bot) | 6 | 글, 분석, 분석 한 번 더, 댓글, 답글 한 번에, 댓글 수 |
 | 글 상세, 댓글 있음 (사람) | 8 | 위 6개와 조회수 UPDATE, 방문 수 저장 |
 | 공지 목록 | 1 | 공지 조회수 한 번에 |
@@ -270,6 +271,7 @@ SPRINTS의 그 스프린트 메모에 한 줄을 남긴다. 예:
 | 사진 줄이기 | 사람이 받는 사진 p95 4.8초, 1초 넘음 8.5% (14일). 앱이 내주는 시간은 p95 0.24초라 대부분 전송 구간이다. 피드 1쪽 썸네일 24장 1.97 MB (한 장 36 ~ 111 KB, 600 px) | 칸 크기에 맞는 작은 썸네일이나 WebP (CDN은 앱 쪽 시간이 작아 먼저 할 일이 아니다) | 1쪽 합계, nginx의 사진 p95와 1초 넘는 비율 | 새 일감 |
 | 글 상세의 분석 두 번 읽기 | 쿼리 6개 (사람 8개) | 5개 (사람 7개) | 4.4 | 새 일감 |
 | 조회수 UPDATE | 사람이 글을 열 때마다 쓰기 한 번 (같은 줄을 잠근다) | 모아서 쓰기 (메모리나 Redis) | 부하 시험(k6)에서 같은 글을 동시에 열 때의 p95 | 부하 시험 뒤 |
+| AI 태그 (JM-83) | 2026-11-24 분석 응답에 태그 칸을 더해 입력 토큰 가운데 +437, 출력 +73 (시험 사진 20장, 8절). 지난 글 채우기는 한 번에 입력 1,528, 출력 60 토큰 | 태그 규칙 글을 줄이거나 태그만 따로 부르기 (응답 형식의 칸 설명으로 옮기기) | 배포 뒤 CloudWatch의 `Food analysis finished`와 `Post tags filled` 줄의 토큰 합계 | JM-83 |
 | 검색의 LIKE와 FULLTEXT | 2026-11-23 검색을 더함 (JM-52, 8절). 닉네임과 음식 이름 모두 `'%검색어%'`라 인덱스를 쓰지 못하고 글 수만큼 읽는다. 로컬에서 검색 화면의 두 쿼리(한 쪽, 개수) 합: 글 100개 약 2 ms, 1천 개 약 10 ~ 25 ms, 1만 개 약 70 ~ 250 ms (두 번 잰 범위, 개수 세기가 가장 크다) | 음식 이름을 따로 담는 표(또는 칸)에 FULLTEXT ngram 인덱스. 글이 몇천 개를 넘을 때 | 기록 저장소 `tools/jm52_perf_*`로 글 수를 늘려 같은 쿼리 시간, EXPLAIN | JM-52 (기획서 18절 검색) |
 | 인덱스 | 피드는 `status` 조건으로 글 24개와 전체 글 수를 읽는다 | 필요하면 `(status, id)` 같은 인덱스 | 로컬 대량 데이터에서 EXPLAIN과 시간 | 새 일감 |
 | 올리기 서버 처리 줄이기 | 앱 안에서만 p50 1.45초, p95 4.5초 (143건). 사진 줄이기와 썸네일 만들기, S3 저장 두 번, DB가 한 요청 안에 있다 | 사진을 읽을 때부터 작게 읽기는 JM-94에서 했다 (8절). 남은 것: 단계별 시간을 로그로 나눠 재기(JM-98), S3 저장 두 번을 함께 | 4.1의 `POST /posts` p50과 p95 | JM-94, JM-98 |
@@ -293,3 +295,4 @@ SPRINTS의 그 스프린트 메모에 한 줄을 남긴다. 예:
 | 2026-11-20 | JM-92 | 사용자 흐름 기록(사람의 화면마다 한 줄)을 더하면서, 저장이 화면을 늦추지 않게 두 번 고침: JPA 저장 → INSERT 한 문장(JdbcTemplate) → 응답 밖의 일꾼 스레드 | 로컬, 네 판을 함께 띄워 피드 1쪽을 500번씩 번갈아 연 결과 사람 화면이 bot보다 늦은 정도 p50 / p95: main +0.27 / +0.88 ms. JPA 저장 +8.10 / +10.08 ms (DB에 문장 4개). INSERT 한 문장 +4.64 / +6.87 ms | 일꾼 스레드 저장 +0.60 / +1.98 ms (main과 거의 같음). PR 전 검토로 고친 최종 코드를 main과 둘만 띄워 다시 재도 +0.33 ms (main +0.66 ms, 재는 흔들림 안). 요청 안의 쿼리 수는 그대로이고, 사람 화면마다 INSERT 하나가 따로 나간다. 운영 앱 쪽 피드 p95는 배포 뒤 잰다 (기준 64 ms) | 기록 저장소 `update_picture/JM-92` |
 | 2026-11-23 | JM-62 | 무중단 배포: app 두 자리(app1, app2)를 번갈아 쓰고, 새 자리를 health 확인과 데우기 뒤 nginx reload로 넘김 | 내 PC 리허설(운영 이미지 cbb22dd → cb41f79, 0.2초마다 첫 화면): 502 59건, 12.5초 끊김, 끊긴 뒤 첫 화면 2,761 ms, 피드백 첫 요청 1,482 ms. 운영 nginx 기록(11-04 ~ 11-23): 502 88건, 배포 뒤 첫 요청 가운데 피드 3,259 ms, 글 상세 2,888 ms, 공지 2,505 ms | 502 0건 (처음 옮겨 오는 배포 549번, 보통 배포 두 번 각 500번 요청), 배포 동안 첫 화면 최대 82 ms, 바꿔치기 직후 첫 화면 22 ms와 8 ms, 피드백 9 ms와 14 ms. 배포 한 번 43 ~ 49초, app 둘이 같이 뜰 때 메모리 합 최대 934 MiB(내 PC). 운영(PR #56 배포를 머지 직후부터 밖에서 1초마다 600번, 11-23 15:30 ~ 15:40): 502를 포함한 실패 0건, 배포하는 2분 동안 가운데 99 ms와 가장 느린 것 205 ms, 배포 직후 화면마다 첫 요청 42 ~ 129 ms (바꾸기 전 운영: 배포 15번에 502 87건, 배포 뒤 첫 요청 가운데 2.5 ~ 3.3초) | 기록 저장소 `update_picture/JM-62` |
 | 2026-11-23 | JM-52 | 검색을 더함: 닉네임과 음식 이름(AI의 답과 확정한 이름, JSON_TABLE)의 일부로 찾기 | 검색 없음. 같은 로컬 DB의 피드 두 쿼리(한 쪽, 개수) 합: 글 100개 약 0.3 ~ 0.5 ms, 1천 개 약 0.4 ~ 0.7 ms, 1만 개 약 1 ~ 4 ms | 검색 두 쿼리 합: 글 100개 약 2 ms, 1천 개 약 10 ~ 25 ms, 1만 개 약 70 ~ 250 ms. 같은 PC에서 두 번 쟀는데(draft1, PR 전 검토 뒤) 잴 때의 PC 상태로 두 배쯤 달라 범위로 적는다. 검토 뒤 더한 띄어쓰기 빼기(`REPLACE`)는 같은 실행 안에서 번갈아 재어 5% 안쪽으로 느렸다 (1만 개, 맞는 글 없음: 62 → 67 ms). 요청마다 쿼리 4개(피드와 같음, N+1 없음), 맞는 글이 없으면 1개. 운영 검색 시간은 배포 뒤 4.1로 잰다 (지금 글 약 130개) | 기록 저장소 `update_picture/JM-52` |
+| 2026-11-24 | JM-83 | 음식 태그와 필터: 분석 응답에 태그 칸, 지난 글은 사진을 다시 보내 태그만 고름, 피드와 검색을 태그와 칼로리 범위로 거름 | AI 응답(시험 사진 20장, 실제 Gemini, 같은 사진을 번갈아): 실패 0, 시간 가운데 2,052 ms (p90 3,267), 입력 토큰 가운데 1,329, 출력 139. 필터 없음 | 실패 0, 시간 가운데 2,279 ms (p90 3,441), 입력 1,766, 출력 212. 태그만 묻는 호출 1,602 ms, 입력 1,528, 출력 60. 필터를 고른 화면도 쿼리 4개. 로컬 가짜 글로 잰 필터 두 쿼리(한 쪽, 개수) 합: 1천 개 1.3 ~ 5.7 ms, 1만 개 7 ~ 23 ms (같은 DB의 피드 1.3, 2.0 ms) | 기록 저장소 `update_picture/JM-83` |

diff --git a/docs/troubleshooting/README.md b/docs/troubleshooting/README.md
@@ -33,14 +33,15 @@
 | 2026-11-23 | [끌 때 AI 분석을 기다리게 넣은 설정이 DB를 먼저 닫아 분석을 실패시킴](2026-11-23-await-termination-closed-db-first.md) | 분석 둘이 "Could not open JPA EntityManager"로 실패, PENDING으로 남음 | 해결 (JM-62, 설정을 빼고 기본값으로) |
 | 2026-11-23 | [서버를 끌 때 줄에서 기다리던 AI 분석이 PENDING으로 남음](2026-11-23-pending-analysis-left-on-shutdown.md) | 내 PC 재현: 글 6개 중 줄에 있던 4개가 PENDING, 다시 켜도 그대로 → 고친 뒤 0 (시험용 20초 간격으로 다시 켠 뒤 약 3분, 운영 값이면 약 7분) | 해결 (JM-110) |
 | 2026-11-23 | [검색을 머지하기 전에 찾은 빈틈 열한 가지](2026-11-23-search-gaps-before-merge.md) | 휴대폰 검색 칸 깨짐, 새 탭에서 글을 열면 스크립트 오류, 띄어쓰기로 못 찾음(치즈떡볶이 1개, 치즈 떡볶이 8개), 긴 검색어로 휴대폰 화면 밀림(폭 320에서 508) 등. 고친 뒤 같은 스크립트로 모두 확인 | 해결 (JM-52) |
+| 2026-11-24 | [음식 태그와 필터를 머지하기 전에 찾은 빈틈 열한 가지](2026-11-24-tags-filter-gaps-before-merge.md) | 태그가 하나도 저장되지 않음(JPA 기억 비우기), 태그 칸이 MySQL ENUM, AI 장애 한 시간이면 지난 글 80개쯤이 영영 안 채워짐, 뒤로 가기 뒤 칼로리 칸이 잠김 등. 고친 뒤 같은 테스트와 스크립트로 확인 | 해결 (JM-83) |
 
 ## 미리 막은 문제 (예방)
 
 | 영역 | 항목 |
 |---|---|
 | [사진 올리기와 저장](prevent-photo-upload.md) | 크기 한도 네 겹, 파일 앞 바이트로 형식 검사, 화소 수 먼저 보기와 한 장씩 처리, 크게 받아 작게 보관(약 96% 줄임), EXIF 위치 지우기, 무작위 이름과 이름 검사, 비공개 버킷과 열쇠 없는 역할, 1년 캐시, 올리기 횟수 제한 |
-| [서버 자원, 배포, 비용](prevent-server-resources.md) | DB를 RDS로, 힙과 컨테이너와 스왑의 한도, 로그 크기 한도와 이미지 정리, 상태 검사와 되돌리기, 자동 복구, nginx가 app 주소를 다시 묻기, CSS 지문, open-in-view 끄기, N+1 막기, AI를 요청 밖에서와 하루 한도와 버려진 분석 다시 넣기(JM-110), 요금 알림과 월 1회 점검, 화면마다 쓰는 기록은 응답 밖에서(JM-92), 무중단 배포가 사이트를 멈추지 않게(JM-62), 검색이 글 전체를 훑는 비용과 바꿀 때(JM-52) |
-| [보안과 개인정보](prevent-security-privacy.md) | BCrypt, https 전용 쿠키와 SameSite, HTTPS와 HSTS, 가짜 IP 막기, IP 없는 기록, 비밀값을 저장소 밖에, 운영자 열쇠와 등록 기기, 비밀번호나 방금 올린 브라우저, bot 거르기와 좋아요 상한, 위치는 동의와 합계만, 사용자 흐름은 방문 단위와 줄인 값(JM-92), 검색어는 글자로만 출력하고 흐름 기록에 남기지 않음(JM-52) |
+| [서버 자원, 배포, 비용](prevent-server-resources.md) | DB를 RDS로, 힙과 컨테이너와 스왑의 한도, 로그 크기 한도와 이미지 정리, 상태 검사와 되돌리기, 자동 복구, nginx가 app 주소를 다시 묻기, CSS 지문, open-in-view 끄기, N+1 막기, AI를 요청 밖에서와 하루 한도와 버려진 분석 다시 넣기(JM-110), 요금 알림과 월 1회 점검, 화면마다 쓰는 기록은 응답 밖에서(JM-92), 무중단 배포가 사이트를 멈추지 않게(JM-62), 검색이 글 전체를 훑는 비용과 바꿀 때(JM-52), 지난 글 태그 채우기의 AI 비용(JM-83) |
+| [보안과 개인정보](prevent-security-privacy.md) | BCrypt, https 전용 쿠키와 SameSite, HTTPS와 HSTS, 가짜 IP 막기, IP 없는 기록, 비밀값을 저장소 밖에, 운영자 열쇠와 등록 기기, 비밀번호나 방금 올린 브라우저, bot 거르기와 좋아요 상한, 위치는 동의와 합계만, 사용자 흐름은 방문 단위와 줄인 값(JM-92), 검색어는 글자로만 출력하고 흐름 기록에 남기지 않음(JM-52), 필터 주소의 값은 정해 둔 이름과 숫자만(JM-83) |
 | [알아채고 원인 찾기](prevent-observability.md) | traceId, 요청마다 한 줄 기록, JSON 로그와 CloudWatch, 에러 경보와 다운 알림, 사진 검토 경보, AI 분석 기록과 운영자 통계, 측정 기반(JM-91), 잘못된 요청은 400번대와 WARN(JM-107), 기록이 실패해도 경고만(JM-92) |
 
 ## 겪은 문제 (장애, 버그)

diff --git a/docs/troubleshooting/prevent-server-resources.md b/docs/troubleshooting/prevent-server-resources.md
@@ -106,3 +106,27 @@
 - **언제**: 2026-11-23 JM-52 (PR #58)
 - **확인**: 내 PC MySQL 8.4에 가짜 글을 채워 검색 화면의 두 쿼리(한 쪽, 개수) 합을 쟀다: 글 100개 약 2 ms, 1천 개 약 10 ~ 25 ms, 1만 개 약 70 ~ 250 ms (두 번 잰 범위, 같은 DB의 피드는 1만 개에서 1 ~ 4 ms). 요청마다 쿼리 4개로 피드와 같고, 맞는 글이 없으면 1개다 ([성능 문서](../performance.md) 3절, 8절). 분석 기록을 `not json`과 `[{`로 깨뜨린 글이 있어도 검색이 되는 테스트(`PostSearchTest`)
 - **남은 것**: 검색에는 횟수 제한이 없다. 지금 규모(글 약 130개)에서는 한 번에 2 ms쯤이라 두지 않았고, FULLTEXT로 바꿀 때 함께 본다. 운영의 검색 시간은 배포 뒤 성능 문서 4.1로 잰다
+
+## 15. 지난 글의 태그를 채우다 AI 비용이 넘치는 문제 → 한 글 3번, 맡기, 장애 때 멈춤, 하루 상한에 셈
+
+- **예상한 문제**: 음식 태그(JM-83)가 생기기 전의 글은 사진을 AI에 다시 보내 채운다. 일꾼이 몇 분마다 돌면서
+  - 사진이 없거나 AI가 이상한 답을 주는 글에 끝없이 부를 수 있다
+  - 무중단 배포로 app 둘이 함께 떠 있을 때 같은 글을 두 번 부를 수 있다
+  - AI 장애 동안 계속 부르면서 횟수를 다 써 버릴 수 있다
+  - 사용자의 분석이 써야 할 하루 상한을 몰래 쓸 수 있다
+- **미리 한 것** (`PostTagFiller`, `FoodAnalysisRepository`)
+  - ① 한 글은 3번까지만 맡는다 (`tag_attempts`)
+  - ② 부르기 전에 조건부 UPDATE로 맡는다 (`tag_called_at`, 3분 지나면 다시 맡을 수 있다)
+  - ③ 답을 받지 못한 실패(429, 5xx, 연결 실패, 사진 저장소 오류)는 맡은 것을 돌려주고 그 회차를 멈춘다 → 장애가 길어도 5분에 한 번
+  - ④ 하루 분석 횟수에 태그 호출(맡은 횟수의 합)을 함께 세고, 상한이면 부르지 않는다
+  - ⑤ 한 번에 20개까지, 일정 스레드에서 차례로 (분석 일꾼과 줄을 쓰지 않는다. 일정 스레드는 둘이라 다시 넣기를 막지 않는다)
+  - 새 글은 분석 응답에 태그 칸을 더해서 따로 부르지 않는다
+- **언제**: 2026-11-24 JM-83 (PR #59). ③과 ④의 "맡은 횟수의 합", 일정 스레드 둘은 PR 전 검토에서 더했다
+- **확인**
+  - `PostTagFillerTest`
+    - 한 글은 한 번만 맡고, 3분 뒤 다시 맡되 3번까지
+    - 503이면 한 번만 부르고 멈추고 횟수 0
+    - 사진 저장소 오류는 돌려줌, 상한이면 부르지 않음, 두 번 맡으면 하루 횟수 2
+  - 실제 Gemini로 잰 한 번의 비용: 입력 1,528, 출력 60 토큰, 가운데 1.6초 (시험 사진 20장)
+  - 지난 글 161개면 배포한 날 161번쯤이고, 끝없이 실패해도 한 글 3번이라 많아야 483번이다
+- **남은 것**: 배포 뒤 CloudWatch의 `Post tags filled` 줄로 실제 호출 수와 토큰을 센다 (성능 문서 6절)

diff --git a/docs/troubleshooting/prevent-security-privacy.md b/docs/troubleshooting/prevent-security-privacy.md
@@ -82,3 +82,26 @@
 - **언제**: 2026-11-23 JM-52 (PR #58)
 - **확인**: 헤드리스 Chrome으로 `<script>alert(1)</script>`를 찾아 글자로만 보이고 script 태그는 페이지 자체의 것뿐인 것을 봤다 (기록 저장소 `update_picture/JM-52`). `a_b`, `c%d`, `e!f`가 그 글자 그대로만 맞는 테스트, 흐름 기록에 `SEARCH`와 쪽 번호만 남는 테스트(`PageFlowInterceptorTest`). PR 전 검토(에이전트 둘)도 제목, 입력칸, 결과 줄, 쪽 번호 링크에 `"><script>…'&#`를 넣어 모두 글자로만 나오는 것과, 앱 로그, 에러 화면, 흐름 기록 어디에도 검색어가 남지 않는 것을 확인했다. 검토에서 찾은 NBSP 하나만 보내면 빈칸이 든 이름이 모두 나오던 것은 고쳤다 ([찾은 문제](2026-11-23-search-gaps-before-merge.md) ⑩)
 - **남은 것**: nginx 접속 기록에는 다른 주소와 같이 검색어가 들어간 주소가 남는다 (IP는 없음, 서버 파일 10 MB 세 개를 돌려 씀)
+
+## 13. 필터 주소의 값이 SQL이나 화면을 깨는 문제 → 정해 둔 이름과 숫자만, SQL은 매개변수로
+
+- **예상한 문제**: 필터(JM-83)는 주소(`?tag=KOREAN&kcalMin=400`)로 받는다. 주소는 누구나 고칠 수 있다
+  - 태그 이름이나 숫자를 SQL에 이어 붙이면 SQL 주입이 된다
+  - 화면이나 쪽 번호 주소에 그대로 넣으면 XSS가 된다
+  - 검색어가 빈 채로 필터를 넘기는 리다이렉트가 남의 사이트로 보내는 데 쓰일 수 있다(open redirect)
+  - 필터마다 다른 주소를 검색 엔진이 끝없이 담아 갈 수 있다
+- **미리 한 것**
+  - ① 태그는 `FoodTag`의 이름과 같을 때만, 칼로리는 200의 배수로 0 ~ 3000일 때만 받고 나머지는 버린다 (`FeedFilter`)
+  - ② SQL은 정해 둔 조각만 이어 붙이고 값은 모두 매개변수 (`PostFilterQuery`)
+  - ③ 리다이렉트와 쪽 번호 주소는 받은 값이 아니라 ①을 거친 이름과 숫자로 다시 만든다
+  - ④ 화면의 검색어는 `c:out`, 칩과 칼로리 칸은 서버가 정한 값만
+  - ⑤ 필터를 고른 화면은 `noindex` (PR 전 검토에서 더함)
+- **언제**: 2026-11-24 JM-83 (PR #59)
+- **확인**
+  - 테스트 (`FeedFilterTest`: 모르는 이름, 200의 배수가 아닌 숫자, 범위 밖, 전각과 다른 나라 숫자는 버림)
+  - PR 전 검토(화면과 보안 에이전트)에서 시험한 것
+    - 검색어 `a"b<c>'d&e#f%g+h i`와 필터를 함께: 모든 자리가 글자로만 나옴
+    - `tag=` 730개는 200, 그보다 많은 매개변수는 Tomcat이 400. 500 없음, ERROR 로그 없음
+    - 리다이렉트에 줄바꿈 넣기: `/`로만 감
+    - 앱 로그와 흐름 기록에 필터 값이 남지 않음
+- **남은 것**: nginx 접속 기록에는 다른 주소와 같이 필터가 실린 주소가 남는다 (IP는 없음)

diff --git a/docs/diagrams/README.md b/docs/diagrams/README.md
@@ -1,6 +1,6 @@
 # 구조 그림
 
-찍먹의 구조를 한눈에 보는 그림 네 장이다 (2026-11-23 기준. 처음 그린 것은 JM-78, 관리자 화면은 JM-82, 사진 검토는 JM-80, 사진 검토 경보는 JM-84, 운영 통계는 JM-75, IP 위치 파일과 방문 지역 표는 JM-86, 검색 결과 화면은 JM-52에서 더했다).
+찍먹의 구조를 한눈에 보는 그림 네 장이다 (2026-11-24 기준. 처음 그린 것은 JM-78, 관리자 화면은 JM-82, 사진 검토는 JM-80, 사진 검토 경보는 JM-84, 운영 통계는 JM-75, IP 위치 파일과 방문 지역 표는 JM-86, 검색 결과 화면은 JM-52, 필터와 음식 태그는 JM-83에서 더했다).
 
 | 그림 | 보여 주는 것 | 기획서 |
 |---|---|---|
@@ -17,6 +17,6 @@
 & "C:\Program Files\Google\Chrome\Application\chrome.exe" --headless=new --hide-scrollbars --force-device-scale-factor=2 --window-size=1600,1345 --screenshot="$PWD\resource-map.png" "$PWD\resource-map.html"
 ```
 
-- 파일 이름 두 곳과 높이(`--window-size`의 두 번째 숫자)만 그림마다 바꾼다. 높이: deploy-architecture 1100, site-ia 1356, ai-analysis-flow 1296, resource-map 1345. 내용이 늘어 아래가 잘리면 높이를 늘린다.
+- 파일 이름 두 곳과 높이(`--window-size`의 두 번째 숫자)만 그림마다 바꾼다. 높이: deploy-architecture 1100, site-ia 1395, ai-analysis-flow 1296, resource-map 1345. 내용이 늘어 아래가 잘리면 높이를 늘린다.
 - 글꼴은 Noto Sans KR이다. PC에 없으면 다른 글꼴로 그려져 글자가 상자를 넘칠 수 있다.
 - 비밀값은 이름만 적는다. 값(비밀번호, 키, 토큰)과 버킷 이름, RDS 주소는 그림에 넣지 않는다.

diff --git a/docs/user-flow.md b/docs/user-flow.md
@@ -178,6 +178,7 @@ WHERE v.first_seq > 1 AND v.started >= UTC_TIMESTAMP() - INTERVAL 7 DAY;
 - **다시 보여 준 피드백 쓰기 화면**: 피드백 입력이 틀리면 쓰기 화면을 주소 `/feedback`으로 다시 보여 준다. 그 화면에서 넘어간 줄의 바로 앞 화면은 피드백 목록으로 보인다 (주소로는 가를 수 없다)
 - **첫 화면이 에러 화면**이면 그다음 화면이 첫 줄이 된다. 그 줄의 출처는 우리 사이트로 보여 다른 사이트의 도메인을 놓친다 (방문 수도 같은 규칙으로 센다)
 - **기기**: 안드로이드 태블릿은 휴대폰으로, 요즘 아이패드의 사파리는 컴퓨터로 보인다 (User-Agent가 그렇게 온다)
+- **필터 (JM-83)**: 고른 필터는 흐름 기록에 남기지 않는다. 필터를 고른 피드와 검색도 `FEED`, `SEARCH`와 쪽 번호만 남는다. 어떤 묶음을 실제로 쓰는지는 nginx 기록의 주소(`tag=`, `kcalMin=`)로 센다 (기획서 18절 필터 화면)
 - **클릭**: 요청이 가는 것만 안다. 메뉴인지 몇 번째 카드인지, 답글 칸 열기처럼 요청이 없는 클릭은 다음 조각
 
 ## 6. 전후 기록
